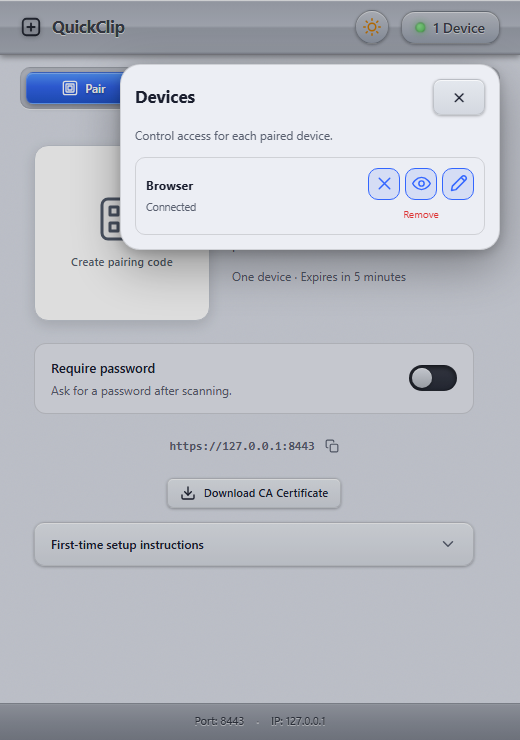
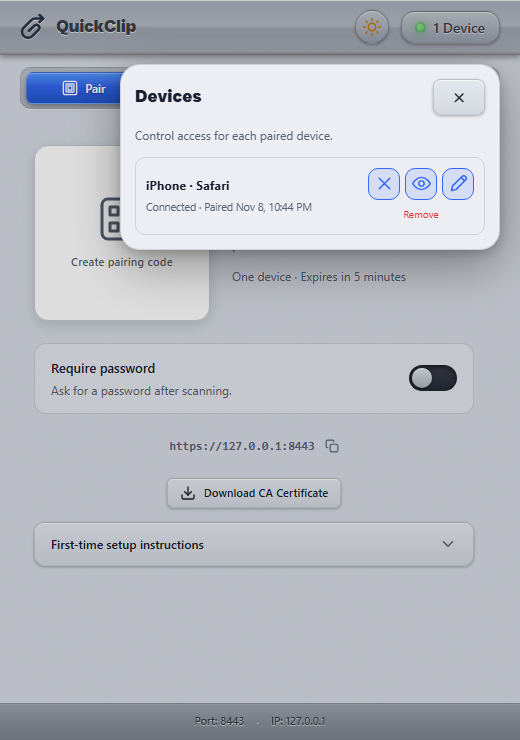
docs(readme): document re-pair replacement and device names
Explain that re-pairing a browser replaces its entry and keeps its permissions,
how entries are named, and that each browser pairs separately. Refresh the
Devices, Settings and password-review screenshots.

diff --git a/README.md b/README.md
@@ -67,6 +67,8 @@ Scan the QR code after installing and trusting the certificate. With **Require p
 
 The phone stores its device credential locally and removes the invitation from the visible URL. A pending invitation survives a page refresh in the same tab. Opening a new QR link in an existing tab restarts pairing.
 
+Scanning a new code in a browser that is already paired replaces that browser's entry on Windows instead of adding a duplicate; the new entry keeps the old entry's Access, View, and Write permissions. Each entry is named after the device and browser, for example **iPhone · Safari**, **iPhone · Chrome**, or **iPhone · Home Screen app**, and shows when it was paired. Safari, Chrome, and a Home Screen app each keep their own credential, so each one appears as a separate entry.
+
 ### Clipboard in both directions
 
 <table>
@@ -115,10 +117,10 @@ Files uploaded from the phone are stored under QuickClip's per-user `runtime/rec
 
 ### Manage devices
 
-Click the connection badge in the top-right corner to open **Devices**. Each paired device shows its connection state and separate **Access**, **View**, and **Write** controls. The same permissions are available under **Settings > Security**.
+Click the connection badge in the top-right corner to open **Devices**. Each paired device shows its name (device and browser), connection state, pairing date, and separate **Access**, **View**, and **Write** controls. The same permissions are available under **Settings > Security**.
 
 <p align="center">
-  <img src="./assets/readme/windows-device-permissions.png" alt="Current Devices panel showing the connected test browser and permission controls" width="520">
+  <img src="./assets/readme/windows-device-permissions.png" alt="Devices panel showing iPhone · Safari, connected, with its pairing date and permission controls" width="520">
 </p>
 <p align="center"><sub>Allow a device to view shared content, send content to Windows, or do both. Turn off Access to block it while keeping its pairing, or choose Remove to require pairing again.</sub></p>
 
@@ -302,7 +304,7 @@ In the Windows Pair tab, select **Create pairing code**, or select **New pairing
 <p align="center">
   <img src="./assets/readme/windows-password-device-review.png" alt="Compact Change password dialog with Keep all, Remove all, individual device choices, and Access, View, and Write icons" width="520">
 </p>
-<p align="center"><sub>Isolated test capture: keep the connected browser with Write off and remove the offline tablet. Choices take effect only after Save changes. The background QR is no longer valid.</sub></p>
+<p align="center"><sub>Isolated test capture: keep the connected iPhone with Write off and remove the offline iPad. Choices take effect only after Save changes. The background QR is no longer valid.</sub></p>
 
 - Choose **Keep all** or **Remove all**, or toggle **Keep / Remove** for individual devices.
 - Adjust **Access**, **View**, and **Write** using the same icon buttons as the Devices drawer. Hover for the permission name and current state. Controls also have accessible labels; permissions are disabled for devices marked for removal, and View/Write controls are disabled when Access is off.
